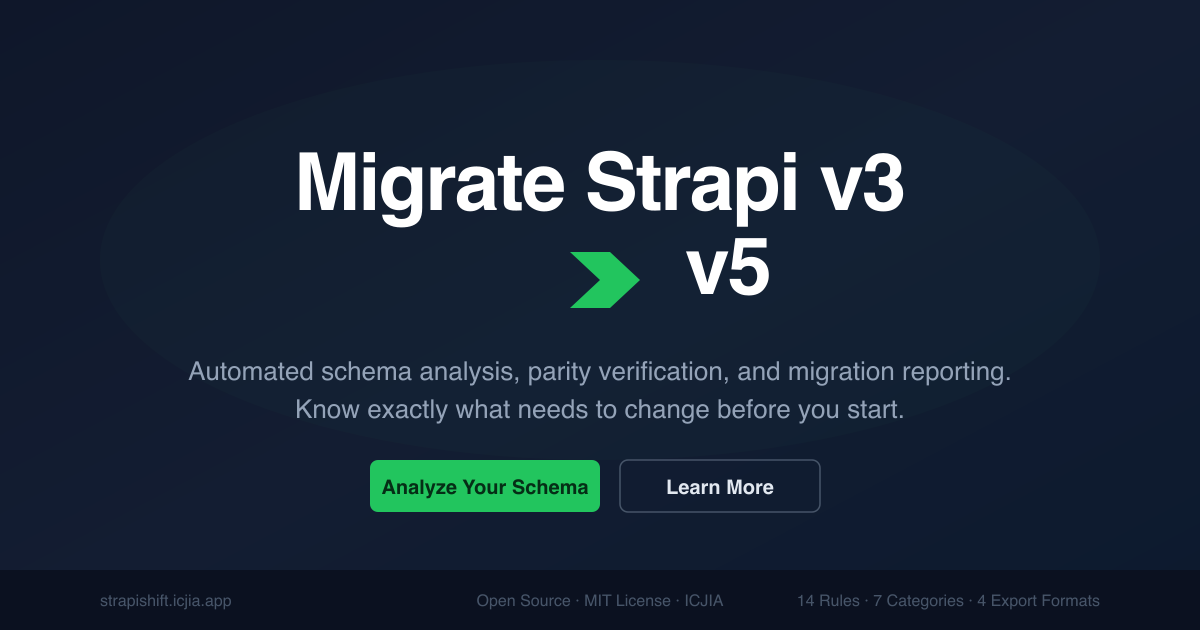
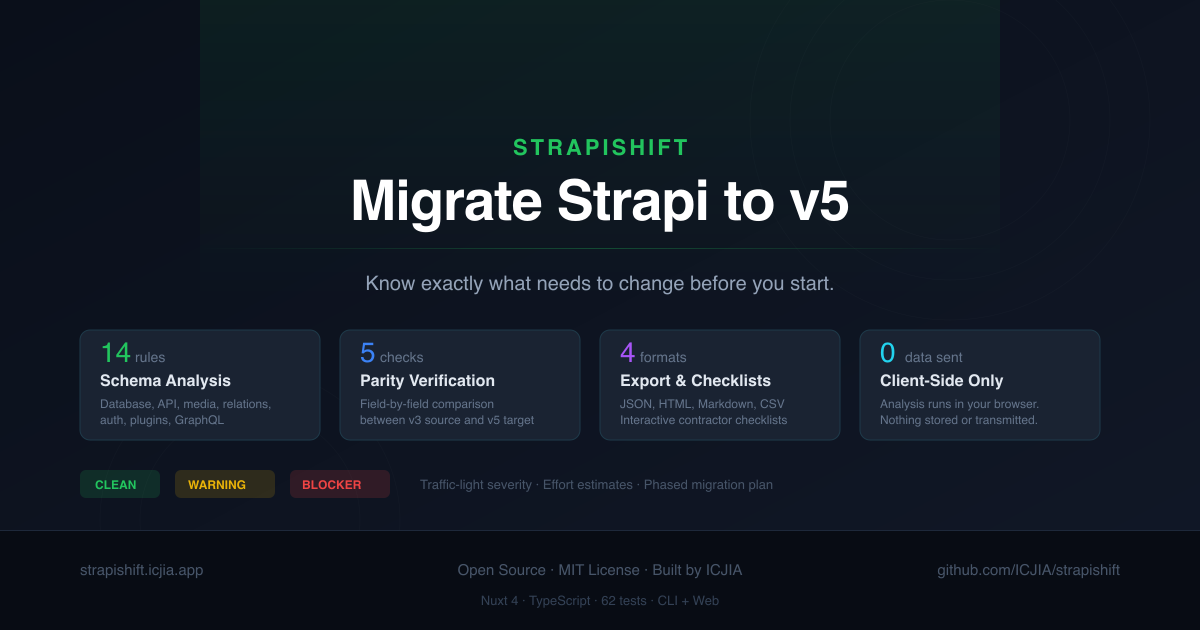
Add SEO and AI readiness: JSON-LD, llms.txt, robots.txt, page-level meta
- Redesigned OG image: modern dark layout with feature cards
- JSON-LD SoftwareApplication schema in nuxt.config
- robots.txt with sitemap reference
- llms.txt for LLM-friendly site description
- SVG favicon with green arrow on dark background
- Canonical URL and theme-color meta tags
- Absolute URLs for og:image and twitter:image
- Page-level useHead() on all 5 pages with unique titles and descriptions

diff --git a/packages/web/nuxt.config.ts b/packages/web/nuxt.config.ts
@@ -18,14 +18,43 @@ export default defineNuxtConfig({
       title: 'StrapiShift — Strapi v3 → v5 Migration Platform',
       meta: [
         { name: 'description', content: 'Automated schema analysis, parity verification, and migration reporting for Strapi v3 to v5 migrations.' },
-        { property: 'og:title', content: 'StrapiShift — Strapi v3 → v5 Migration Platform' },
+        { property: 'og:title', content: 'StrapiShift — Migrate Strapi to v5' },
         { property: 'og:description', content: 'Automated schema analysis, parity verification, and migration reporting for Strapi v3 to v5 migrations.' },
-        { property: 'og:image', content: '/og-image.png' },
+        { property: 'og:image', content: 'https://strapishift.icjia.app/og-image.png' },
+        { property: 'og:url', content: 'https://strapishift.icjia.app' },
         { property: 'og:type', content: 'website' },
         { name: 'twitter:card', content: 'summary_large_image' },
-        { name: 'twitter:title', content: 'StrapiShift — Strapi v3 → v5 Migration Platform' },
+        { name: 'twitter:title', content: 'StrapiShift — Migrate Strapi to v5' },
         { name: 'twitter:description', content: 'Automated schema analysis, parity verification, and migration reporting for Strapi v3 to v5 migrations.' },
-        { name: 'twitter:image', content: '/og-image.png' },
+        { name: 'twitter:image', content: 'https://strapishift.icjia.app/og-image.png' },
+        { name: 'theme-color', content: '#0f172a' },
+      ],
+      link: [
+        { rel: 'canonical', href: 'https://strapishift.icjia.app' },
+        { rel: 'icon', type: 'image/svg+xml', href: '/favicon.svg' },
+      ],
+      script: [
+        {
+          type: 'application/ld+json',
+          innerHTML: JSON.stringify({
+            '@context': 'https://schema.org',
+            '@type': 'SoftwareApplication',
+            name: 'StrapiShift',
+            description: 'Automated schema analysis, parity verification, and migration reporting for Strapi v3 to v5 migrations.',
+            url: 'https://strapishift.icjia.app',
+            applicationCategory: 'DeveloperApplication',
+            operatingSystem: 'Web, macOS, Linux, Windows',
+            offers: { '@type': 'Offer', price: '0', priceCurrency: 'USD' },
+            license: 'https://opensource.org/licenses/MIT',
+            datePublished: '2026-03-14',
+            softwareVersion: '0.1.3',
+            author: {
+              '@type': 'Organization',
+              name: 'Illinois Criminal Justice Information Authority',
+              url: 'https://icjia.illinois.gov',
+            },
+          }),
+        },
       ],
       htmlAttrs: { lang: 'en' }
     }

diff --git a/packages/web/app/pages/index.vue b/packages/web/app/pages/index.vue
@@ -233,6 +233,13 @@
 </template>
 
 <script setup lang="ts">
+useHead({
+  title: 'StrapiShift — Migrate Strapi to v5',
+  meta: [
+    { name: 'description', content: 'Automated schema analysis, parity verification, and migration reporting. Know exactly what needs to change before you start your Strapi migration.' },
+  ],
+})
+
 const features = [
   { emoji: '\u{1F50D}', title: 'Schema Analysis', description: '14 rules across 7 categories detect breaking changes, deprecations, and migration requirements.' },
   { emoji: '\u{2705}', title: 'Parity Verification', description: 'Compare your v3 and v5 schemas field-by-field to ensure nothing was lost in migration.' },

diff --git a/packages/web/app/pages/verify.vue b/packages/web/app/pages/verify.vue
@@ -143,6 +143,13 @@
 <script setup lang="ts">
 import type { ParityCheckStatus } from '@strapishift/core'
 
+useHead({
+  title: 'Parity Verification | StrapiShift',
+  meta: [
+    { name: 'description', content: 'Compare your Strapi v3 and v5 schemas field-by-field to verify migration completeness. Get a parity score and fix checklist.' },
+  ],
+})
+
 const { parityReport, error, verifyParity, exportParityReport, exportParityChecklist } = useAnalysis()
 const { fetchSchemas, fetching } = useStrapiFetch()
 

diff --git a/packages/web/app/pages/report.vue b/packages/web/app/pages/report.vue
@@ -111,6 +111,13 @@
 <script setup lang="ts">
 import type { ContentTypeStatus, Severity } from '@strapishift/core'
 
+useHead({
+  title: 'Migration Report | StrapiShift',
+  meta: [
+    { name: 'description', content: 'View your Strapi migration report with findings, severity classifications, effort estimates, and exportable checklists.' },
+  ],
+})
+
 const { report, exportReport, exportChecklist } = useAnalysis()
 
 const activeFilter = ref<'all' | 'blocker' | 'warning' | 'clean'>('all')

diff --git a/packages/web/app/pages/analyze.vue b/packages/web/app/pages/analyze.vue
@@ -240,6 +240,13 @@
 </template>
 
 <script setup lang="ts">
+useHead({
+  title: 'Schema Analysis | StrapiShift',
+  meta: [
+    { name: 'description', content: 'Analyze your Strapi v3 schema against 14 rules across 7 categories. Get a detailed migration report with blockers, warnings, and actionable fix instructions.' },
+  ],
+})
+
 const router = useRouter()
 const { analyzeSchema, error } = useAnalysis()
 const { fetchSchemas, fetching } = useStrapiFetch()

diff --git a/packages/web/app/pages/about.vue b/packages/web/app/pages/about.vue
@@ -46,3 +46,12 @@
     </div>
   </div>
 </template>
+
+<script setup lang="ts">
+useHead({
+  title: 'About | StrapiShift',
+  meta: [
+    { name: 'description', content: 'StrapiShift is an open-source migration platform built from real-world Strapi v3 to v5 migration experience at ICJIA.' },
+  ],
+})
+</script>
